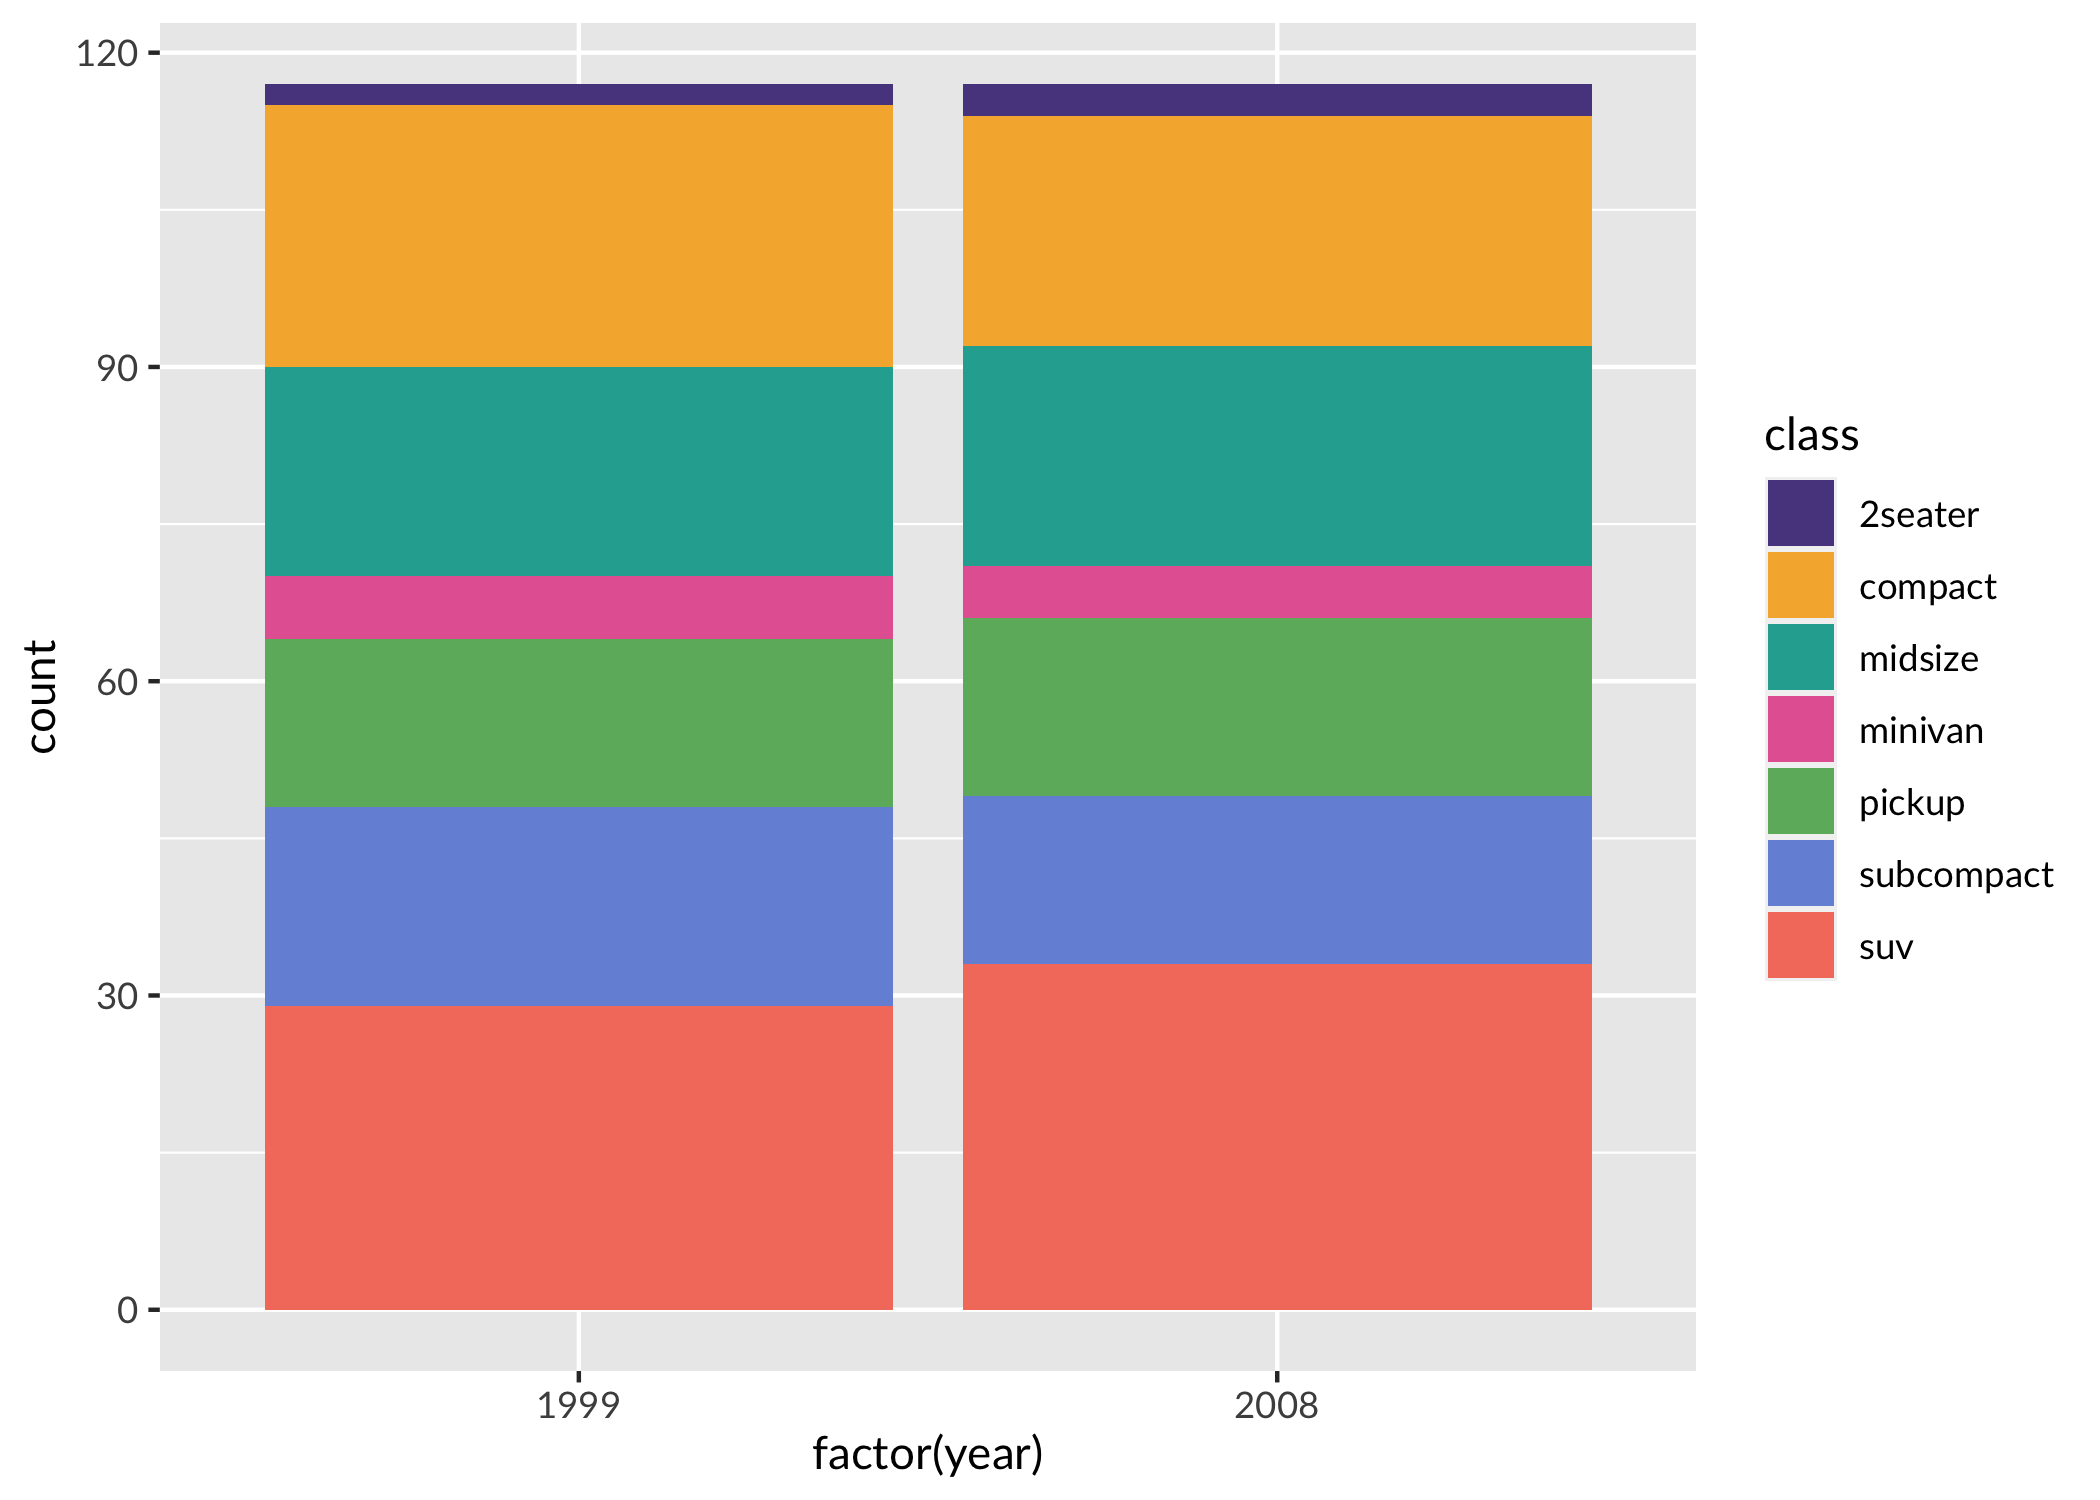
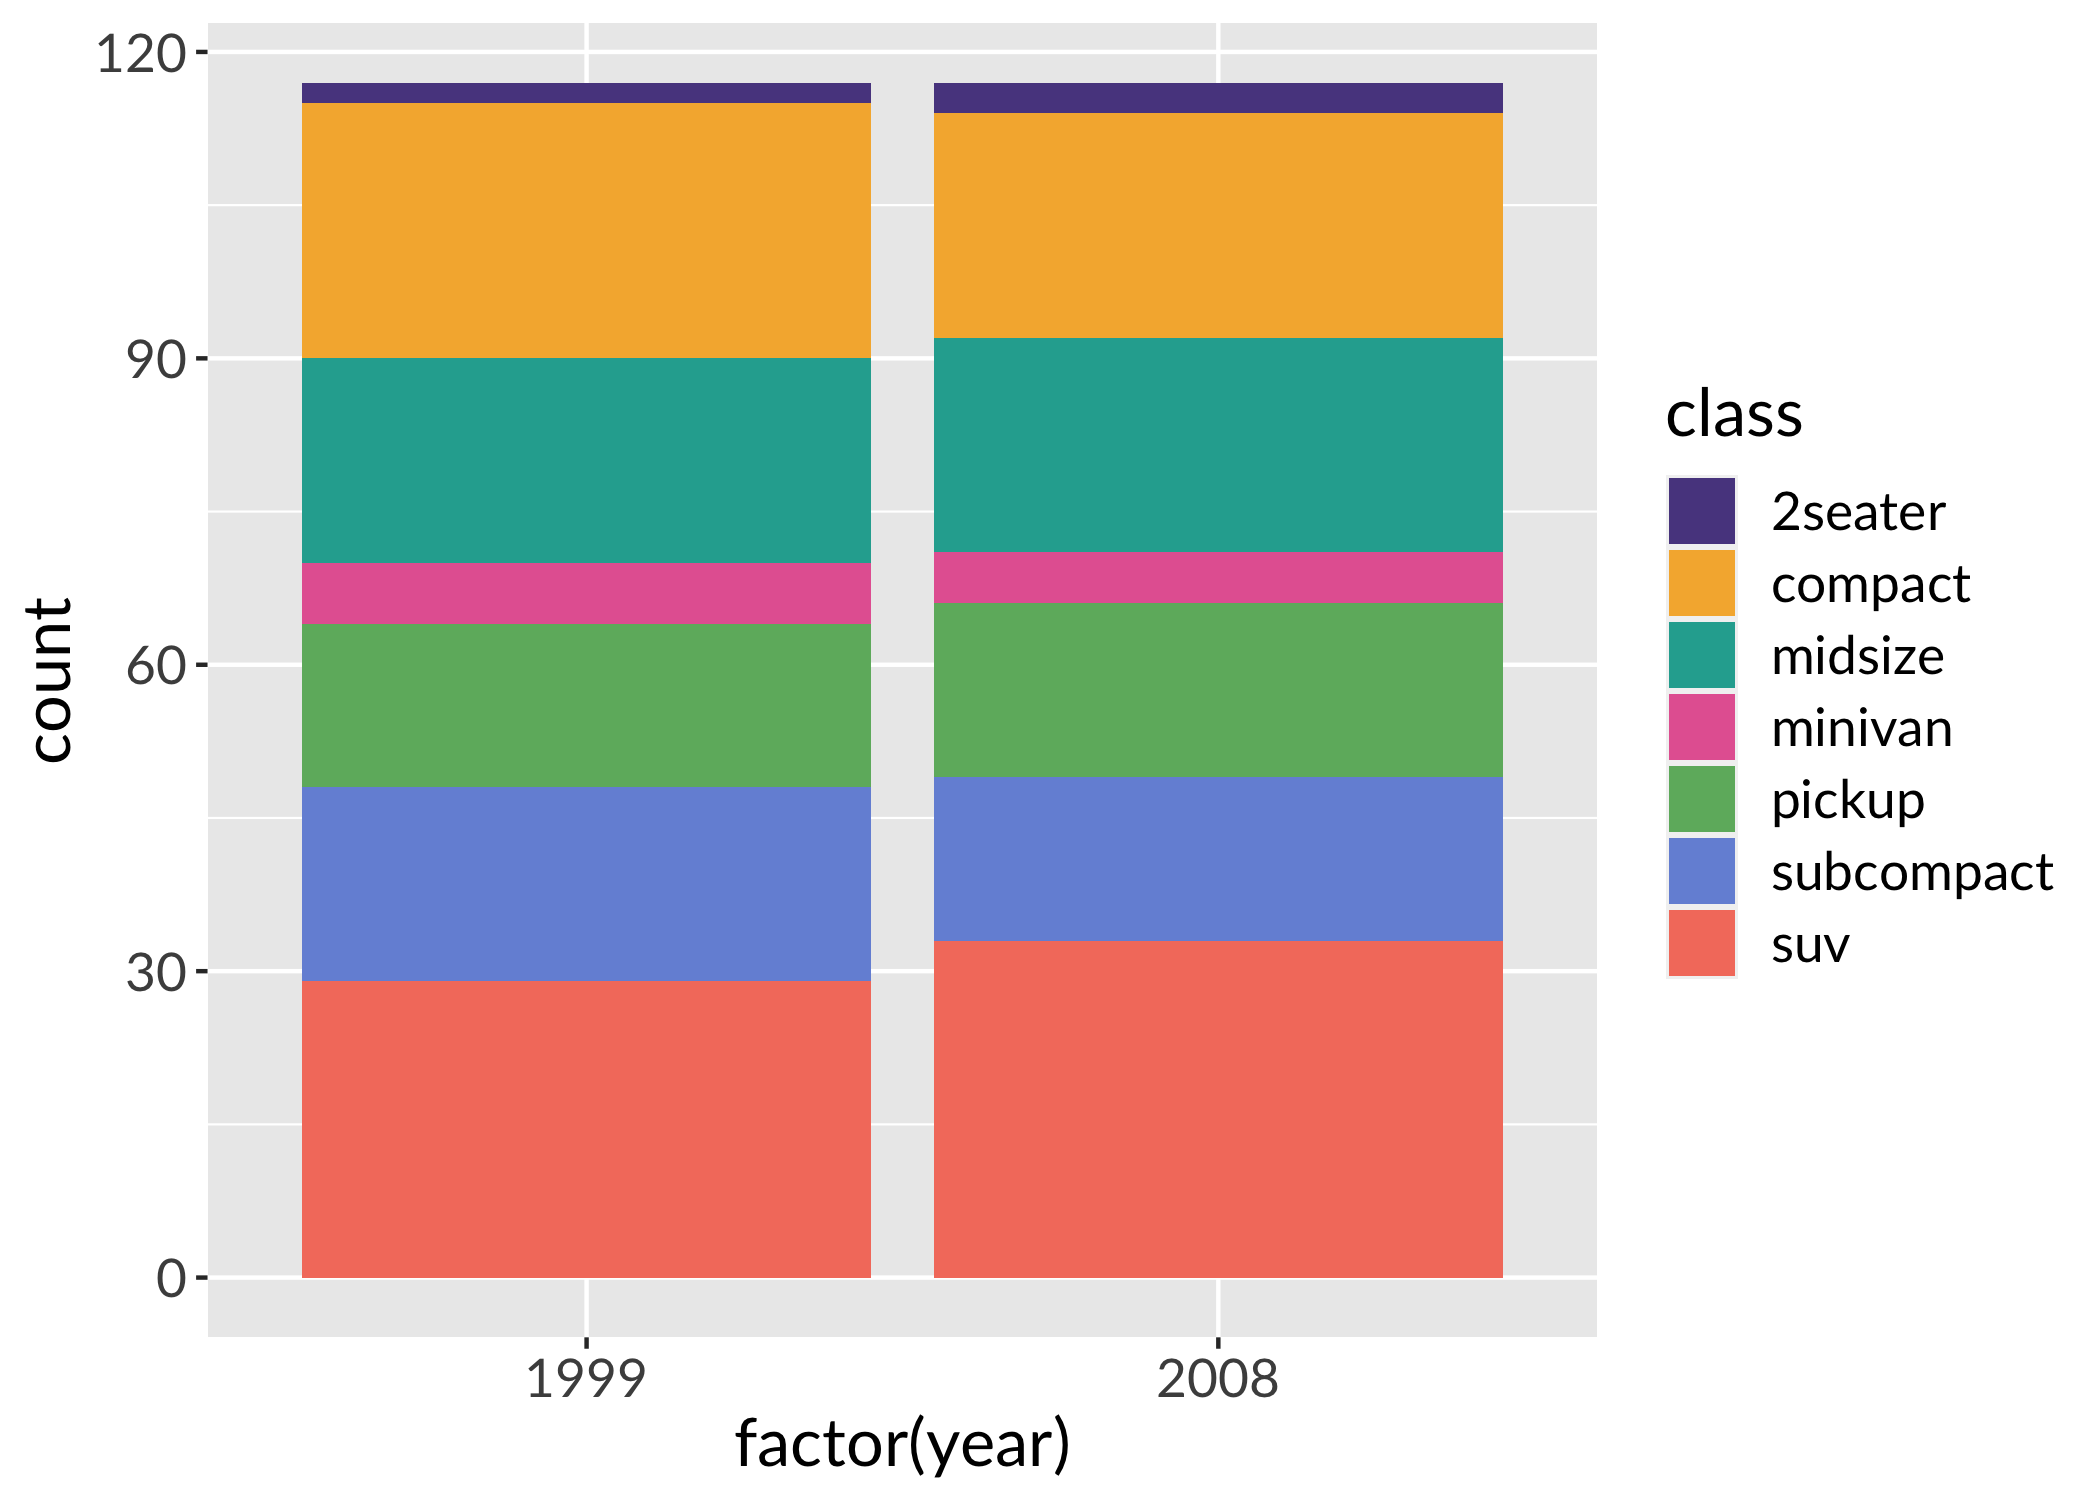
Increase default text size in theme_sage()

Changed region(s): [[0.0, 0.0, 0.9905, 0.9507], [0.3405, 0.9507, 0.5262, 0.9813]]

diff --git a/README.md b/README.md
@@ -43,9 +43,9 @@ head(sage_colors, n = 3)
 
 sagethemes provides continuous, discrete, and binned scales. It also
 provides a default theme, `theme_sage()`, which is currently just
-`theme_gray()` but with Lato as the font family. Lato must be installed
-for this theme to work. See the Fonts section below, and `?import_lato`
-for more information.
+`theme_gray()` but with Lato as the font family and a larger default
+font size. Lato must be installed for this theme to work. See the Fonts
+section below, and `?import_lato` for more information.
 
 ``` r
 library("ggplot2")
